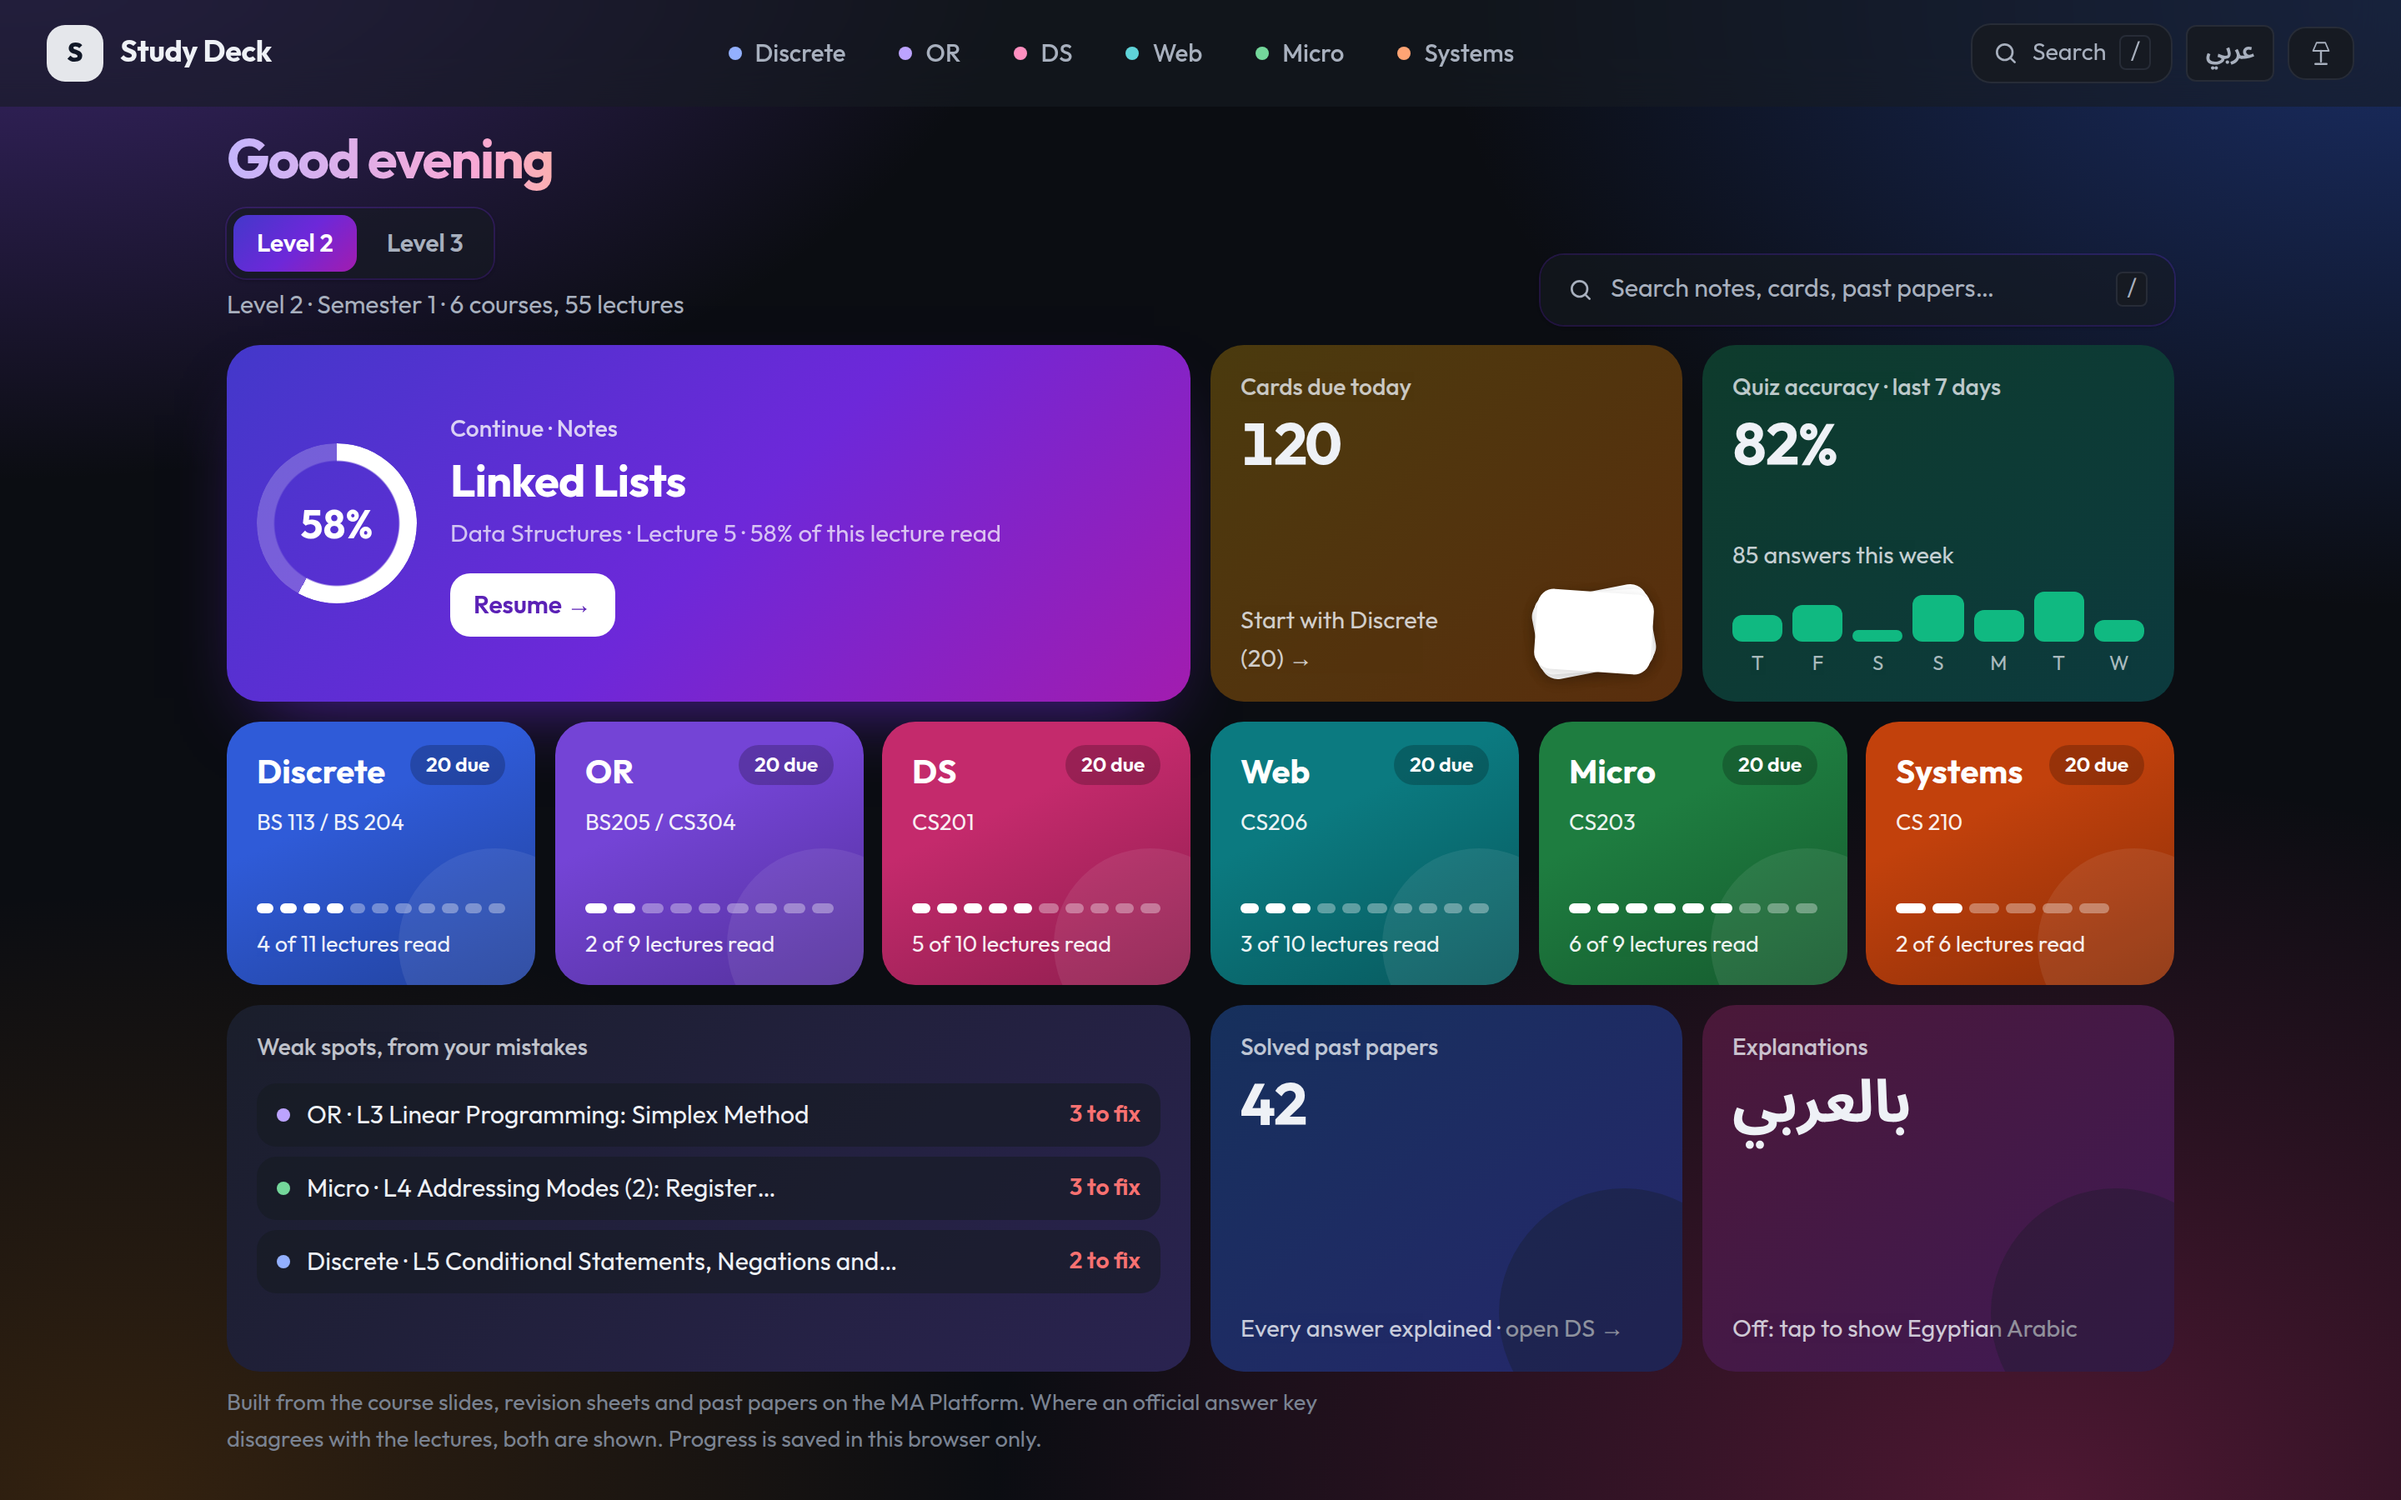
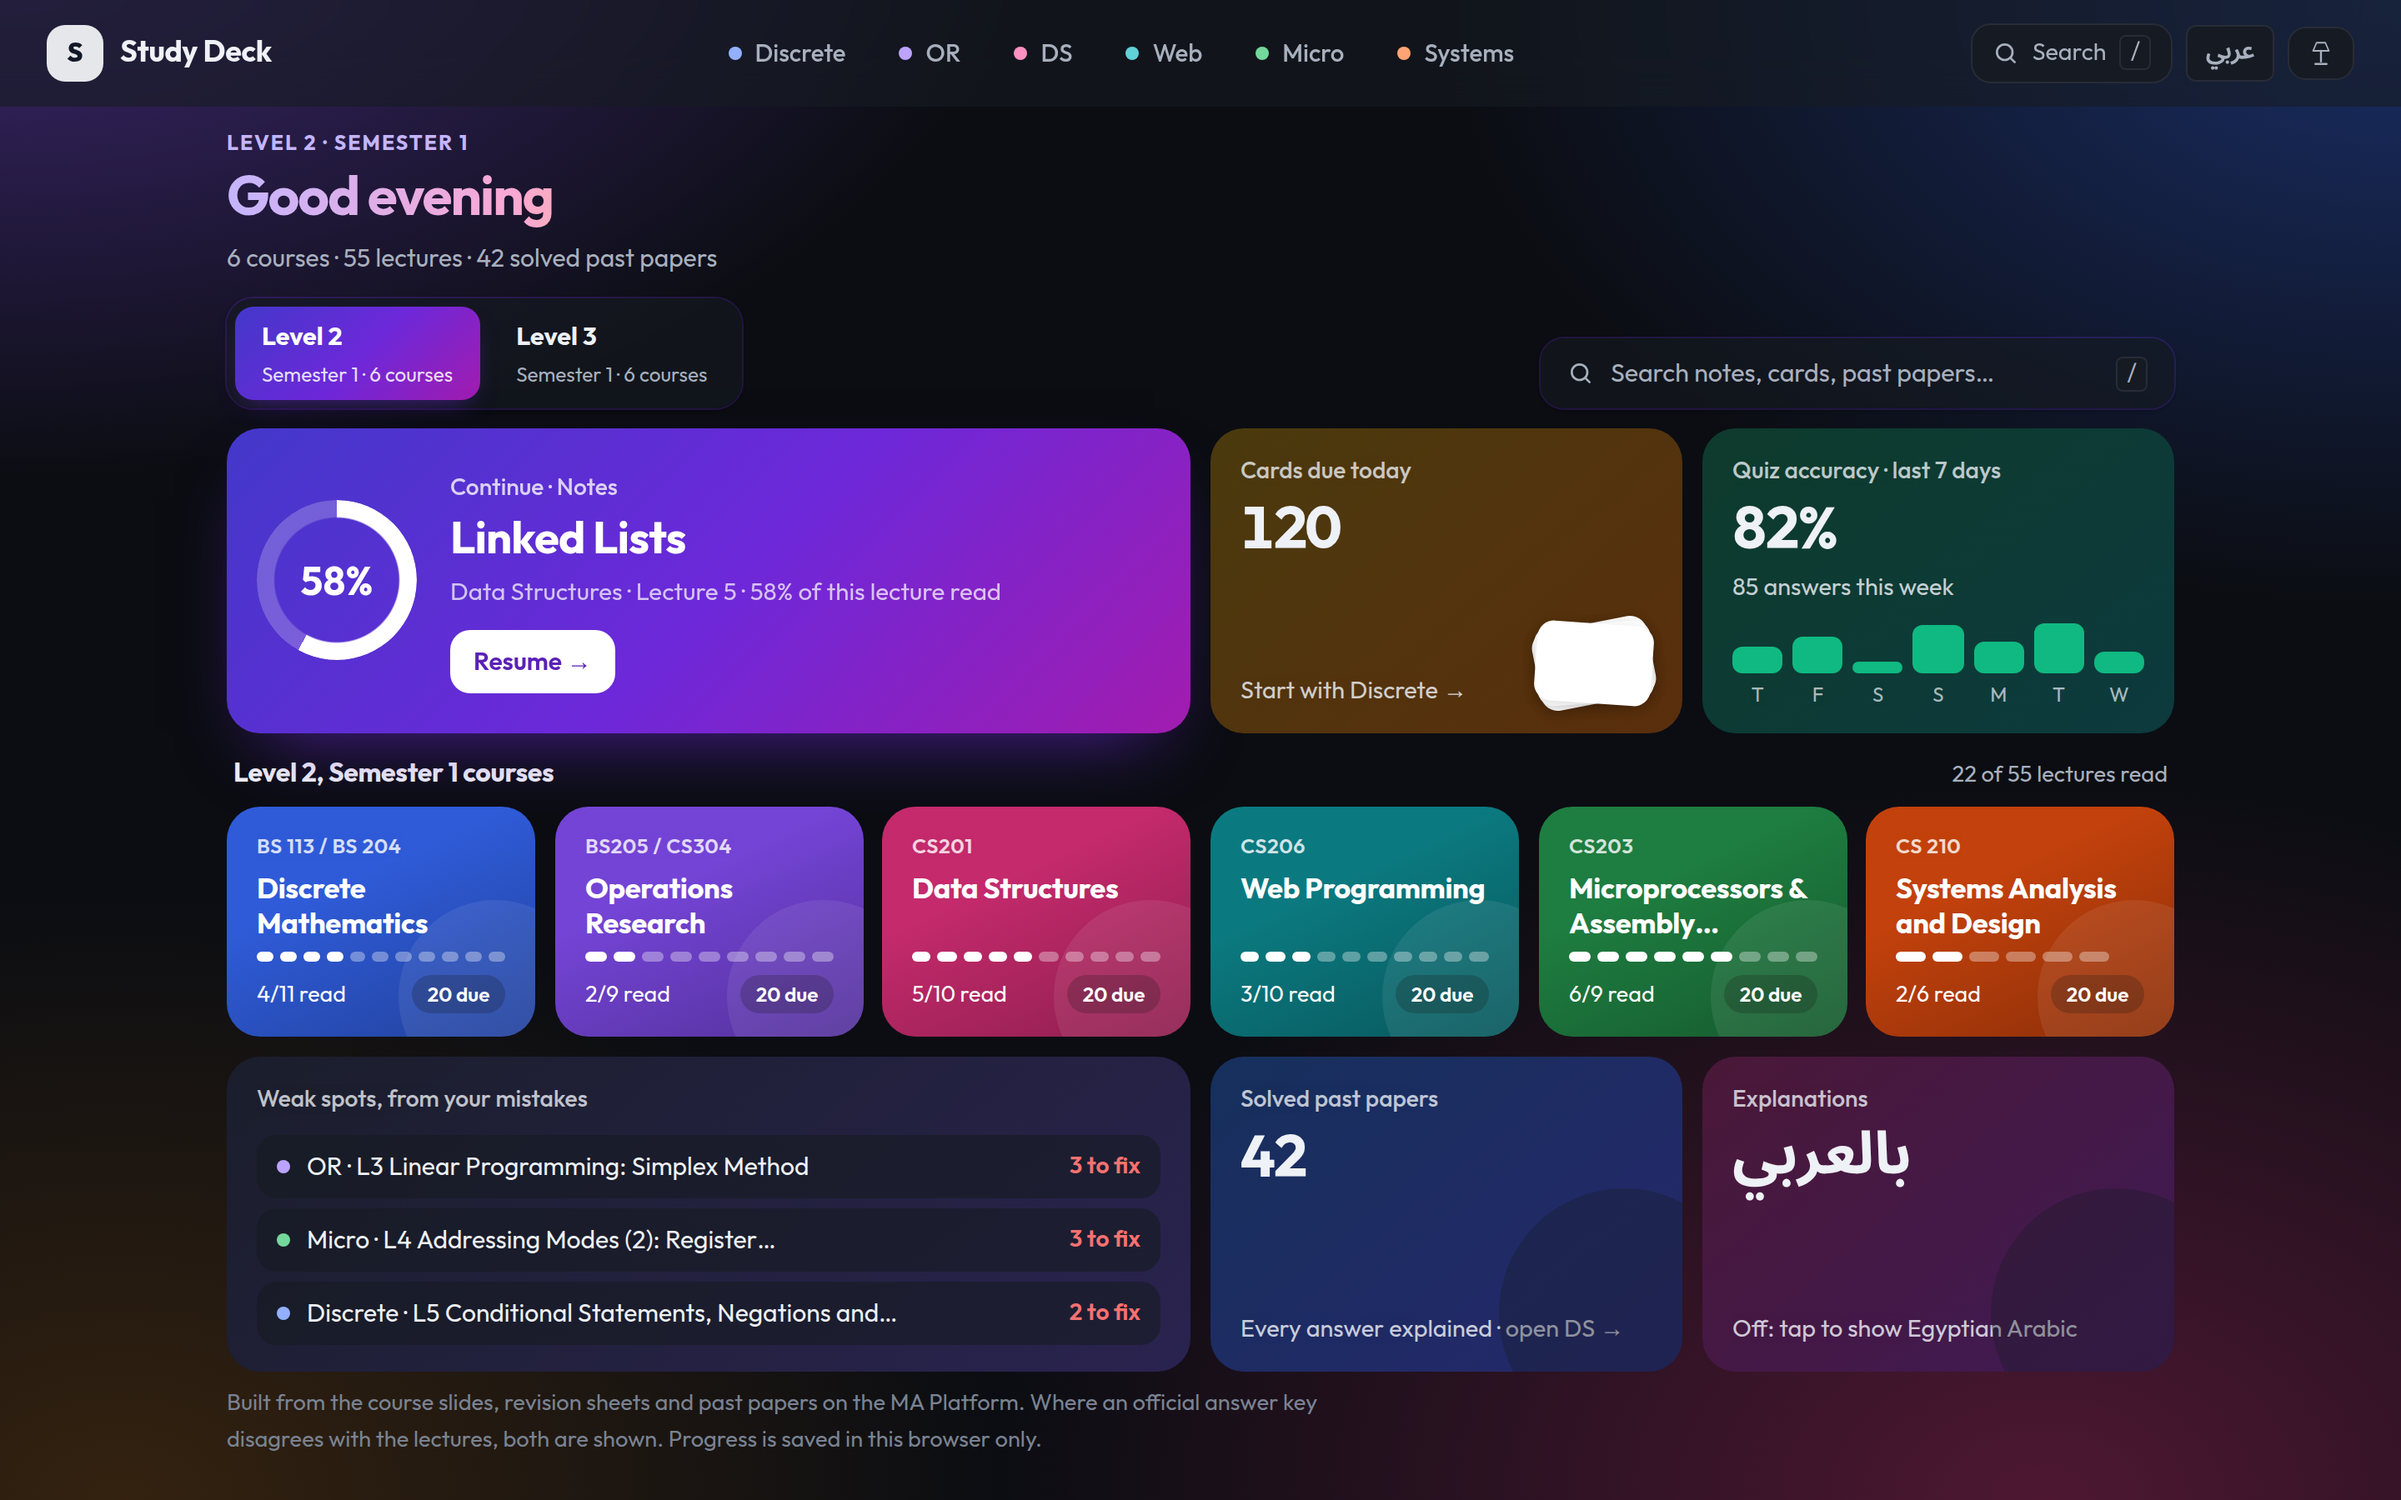
Home page: level picker shows the semester, clearer course tiles

Changed region(s): [[0.0938, 0.0933, 0.9062, 0.9022], [0.4062, 0.7778, 0.5, 0.9022]]

diff --git a/index.html b/index.html
@@ -133,10 +133,17 @@ kbd{ font-family:var(--mono); font-size:.75rem; border:1px solid var(--line); bo
 .hello{ display:flex; justify-content:space-between; align-items:flex-end; gap:16px; flex-wrap:wrap; margin:6px 0 22px; }
 .hello h1{ font-size:clamp(2.1rem, 4.6vw, 3rem); letter-spacing:-.03em; background:var(--hello); -webkit-background-clip:text; background-clip:text; color:transparent; padding-bottom:.06em; }
 .hello p{ margin:4px 0 0; color:var(--graphite); }
+.hello .hello-k{ margin:0 0 2px; font-size:.78rem; font-weight:700; letter-spacing:.08em; text-transform:uppercase; color:#7C3AED; }
+:root[data-theme="dark"] .hello .hello-k{ color:#C4B5FD; }
+@media (prefers-color-scheme: dark){ :root:not([data-theme="light"]) .hello .hello-k{ color:#C4B5FD; } }
 /* Level switch: Level 2 and Level 3 share one site; Level 2 courses reuse the Level 3 course colours in the same order */
-.lvls{ display:inline-flex; gap:4px; margin-top:8px; padding:4px; border-radius:12px; background:var(--glass); box-shadow:0 0 0 1px rgba(124,58,237,.22), var(--shadow-sm); }
-.lvls button{ min-height:34px; padding:0 14px; border:0; border-radius:9px; background:transparent; color:var(--graphite); font:inherit; font-size:.92rem; font-weight:600; cursor:pointer; }
-.lvls button[aria-pressed="true"]{ background:var(--g-cont); color:#FFFFFF; }
+.lvls{ display:flex; flex-wrap:wrap; gap:6px; margin-top:12px; padding:5px; border-radius:16px; background:var(--glass); box-shadow:0 0 0 1px rgba(124,58,237,.22), var(--shadow-sm); width:max-content; max-width:100%; }
+.lvls button{ display:flex; flex-direction:column; align-items:flex-start; gap:1px; min-height:44px; padding:6px 16px; border:0; border-radius:11px; background:transparent; color:var(--ink); font:inherit; text-align:left; cursor:pointer; transition:background .15s ease; }
+.lvls button b{ font-size:.95rem; font-weight:700; }
+.lvls button span{ font-size:.76rem; color:var(--graphite); }
+.lvls button:hover:not([aria-pressed="true"]){ background:color-mix(in srgb, #7C3AED 10%, transparent); }
+.lvls button[aria-pressed="true"]{ background:var(--g-cont); color:#FFFFFF; box-shadow:0 6px 16px -8px rgba(109,40,217,.8); }
+.lvls button[aria-pressed="true"] span{ color:rgba(255,255,255,.85); }
 .lvls button:focus-visible{ outline:2px solid #7C3AED; outline-offset:2px; }
 .hsearch{ display:flex; align-items:center; gap:10px; width:min(380px, 100%); height:48px; padding:0 16px; border:0; border-radius:14px; background:var(--glass); color:var(--graphite); font:inherit; font-size:.95rem; cursor:pointer; box-shadow:0 0 0 1px rgba(124,58,237,.22), var(--shadow-sm); }
 .hsearch span{ flex:1; text-align:left; }
@@ -146,7 +153,7 @@ button.tile{ cursor:pointer; transition:transform .15s ease, box-shadow .15s eas
 button.tile:hover:not(:disabled){ transform:translateY(-3px); box-shadow:0 18px 36px -16px color-mix(in srgb, var(--spd, #7C3AED) 70%, transparent); }
 .tile{ animation:tile-in .5s cubic-bezier(.2,.8,.2,1) both; }
 .bento > :nth-child(2){ animation-delay:.05s; } .bento > :nth-child(3){ animation-delay:.1s; } .bento > :nth-child(5){ animation-delay:.2s; } .bento > :nth-child(6){ animation-delay:.25s; } .bento > :nth-child(7){ animation-delay:.3s; }
-.t-courses > :nth-child(1){ animation-delay:.12s; } .t-courses > :nth-child(2){ animation-delay:.15s; } .t-courses > :nth-child(3){ animation-delay:.18s; } .t-courses > :nth-child(4){ animation-delay:.21s; } .t-courses > :nth-child(5){ animation-delay:.24s; } .t-courses > :nth-child(6){ animation-delay:.27s; }
+.t-courses > button:nth-of-type(1){ animation-delay:.12s; } .t-courses > button:nth-of-type(2){ animation-delay:.15s; } .t-courses > button:nth-of-type(3){ animation-delay:.18s; } .t-courses > button:nth-of-type(4){ animation-delay:.21s; } .t-courses > button:nth-of-type(5){ animation-delay:.24s; } .t-courses > button:nth-of-type(6){ animation-delay:.27s; }
 @keyframes tile-in{ from{ opacity:0; transform:translateY(14px) scale(.985); } }
 @media (prefers-reduced-motion: reduce){ .tile{ animation:none; } }
 button.tile:disabled{ cursor:default; }
@@ -173,13 +180,16 @@ button.tile:disabled{ cursor:default; }
 .bars b{ flex:1; width:100%; display:flex; align-items:flex-end; }
 .bars i{ display:block; width:100%; background:#10B981; border-radius:6px; }
 .bars em{ font-style:normal; font-size:.75rem; opacity:.7; }
-.t-courses{ grid-column:1 / -1; display:grid; grid-template-columns:repeat(6, minmax(0, 1fr)); gap:14px; }
+.t-courses{ grid-column:1 / -1; display:grid; grid-template-columns:repeat(6, minmax(0, 1fr)); grid-template-rows:auto 1fr; gap:14px; }
+.t-head{ grid-column:1 / -1; display:flex; justify-content:space-between; align-items:baseline; gap:4px 12px; flex-wrap:wrap; margin:2px 4px -4px; }
+.t-head h2{ margin:0; font-size:1rem; font-weight:700; color:var(--ink); letter-spacing:-.01em; }
+.t-head span{ font-size:.85rem; color:var(--graphite); }
 .t-course{ background:linear-gradient(155deg, var(--spd) 35%, color-mix(in srgb, var(--spd) 72%, #000)); color:#fff; min-height:156px; }
 .t-course::after{ content:""; position:absolute; right:-34px; bottom:-34px; width:116px; height:116px; border-radius:50%; background:rgba(255,255,255,.08); pointer-events:none; }
-.tcn{ display:flex; flex-wrap:wrap; justify-content:space-between; align-items:flex-start; gap:4px 8px; }
-.tcn b{ font-size:1.25rem; font-weight:700; }
-.tcn em{ font-style:normal; font-size:.78rem; font-weight:600; background:rgba(0,0,0,.22); border-radius:99px; padding:2px 9px; white-space:nowrap; }
-.tcs{ font-size:.84rem; opacity:.92; }
+.tcn{ font-size:1.08rem; font-weight:700; line-height:1.22; letter-spacing:-.01em; display:-webkit-box; -webkit-box-orient:vertical; -webkit-line-clamp:2; line-clamp:2; overflow:hidden; }
+.tcf{ display:flex; justify-content:space-between; align-items:center; gap:8px; font-size:.84rem; }
+.tcf em{ font-style:normal; font-size:.76rem; font-weight:600; background:rgba(0,0,0,.22); border-radius:99px; padding:2px 9px; white-space:nowrap; }
+.tcs{ font-size:.78rem; font-weight:600; letter-spacing:.02em; opacity:.8; }
 .dots{ display:flex; gap:4px; margin-top:auto; margin-bottom:4px; }
 .dots i{ flex:1; max-width:18px; height:6px; border-radius:9px; background:rgba(255,255,255,.35); }
 .dots i.f{ background:#fff; }
@@ -222,7 +232,9 @@ button.tile:disabled{ cursor:default; }
 @media (max-width:1000px){ .bento{ grid-template-columns:repeat(2, minmax(0, 1fr)); } .t-courses{ grid-template-columns:repeat(3, minmax(0, 1fr)); } }
 @media (max-width:600px){
   .bento{ grid-template-columns:minmax(0, 1fr); } .t-cont, .t-weak{ grid-column:auto; }
-  .t-cont{ flex-direction:column; align-items:flex-start; gap:16px; } .ring{ width:96px; height:96px; } .ring::before{ -webkit-mask:radial-gradient(farthest-side, transparent calc(100% - 11px), #000 calc(100% - 10px)); mask:radial-gradient(farthest-side, transparent calc(100% - 11px), #000 calc(100% - 10px)); } .ring i{ font-size:1.2rem; }
+  .t-cont{ align-items:flex-start; gap:16px; min-height:0; } .ring{ width:72px; height:72px; } .ring::before{ -webkit-mask:radial-gradient(farthest-side, transparent calc(100% - 8px), #000 calc(100% - 7px)); mask:radial-gradient(farthest-side, transparent calc(100% - 8px), #000 calc(100% - 7px)); } .ring i{ font-size:1rem; }
+  .hello-l{ width:100%; } .lvls{ display:grid; grid-template-columns:repeat(auto-fit, minmax(0, 1fr)); width:100%; } .lvls button{ padding:6px 12px; }
+  .tcn{ font-size:1rem; -webkit-line-clamp:3; line-clamp:3; }
   .t-courses{ grid-template-columns:repeat(2, minmax(0, 1fr)); } .tile{ min-height:0; } .t-course{ min-height:140px; }
 }
 

diff --git a/app.js b/app.js
@@ -418,9 +418,13 @@ function start() {
       <${Topbar} bar=${bar} cur=${null} />
       <main className="content home">
         <div className="hello">
-          <div><h1>${greet}</h1>
-            ${LEVELS.length > 1 && html`<div className="lvls" role="group" aria-label="Level">${LEVELS.map(v => html`<button key=${v.id} aria-pressed=${String(v.id === LEVEL.id)} onClick=${() => setLevel(v.id)}>${v.name}</button>`)}</div>`}
-            <p>${LEVEL.name} · ${LEVEL.sem} · ${ORDER.length} courses, ${sum.lec} lectures</p></div>
+          <div className="hello-l">
+            <p className="hello-k">${LEVEL.name} · ${LEVEL.sem}</p>
+            <h1>${greet}</h1>
+            <p>${ORDER.length} courses · ${sum.lec} lectures · ${papers} solved past papers</p>
+            ${LEVELS.length > 1 && html`<div className="lvls" role="group" aria-label="Level and semester">${LEVELS.map(v => html`<button key=${v.id} aria-pressed=${String(v.id === LEVEL.id)} onClick=${() => setLevel(v.id)}>
+              <b>${v.name}</b><span>${v.sem} · ${v.order.length} courses</span></button>`)}</div>`}
+          </div>
           <button className="hsearch" onClick=${openSearch}>${Icon.search}<span>Search notes, cards, past papers…</span><kbd>/</kbd></button>
         </div>
         <div className="bento">
@@ -438,7 +442,7 @@ function start() {
             </button>`}
           <button className="tile t-due" disabled=${!dueTop} onClick=${() => dueTop && openCourse(dueTop.k, { mode: 'cards', cardsAuto: Date.now() })}>
             <span className="tl">Cards due today</span><b className="big">${sum.due}</b>
-            <span className="tsub">${dueTop ? 'Start with ' + M[dueTop.k].short + ' (' + dueTop.due + ') →' : 'All caught up'}</span>
+            <span className="tsub">${dueTop ? 'Start with ' + M[dueTop.k].short + ' →' : 'All caught up'}</span>
             <span className="stk" aria-hidden="true"><i></i><i></i><i></i></span>
           </button>
           <div className="tile t-acc">
@@ -447,11 +451,13 @@ function start() {
             <span className="tsub">${wk.n ? wk.n + ' answers this week' : ever.n ? ever.n + ' answers so far' : 'No answers yet'}</span>
             <span className="bars" aria-label="Answers per day, last 7 days">${week.map(x => html`<span key=${x.d} title=${x.n + ' answers, ' + x.r + ' right'}><b><i style=${{ height: (x.n ? Math.max(12, x.n / maxN * 100) : 5) + '%', opacity: x.n ? 1 : .35 }}></i></b><em>${dayLetter(x.d)}</em></span>`)}</span>
           </div>
-          <div className="t-courses">${rows.map(r => html`<button key=${r.k} className=${'tile t-course sp-' + r.k} onMouseEnter=${() => prefetch(r.k)} onClick=${() => openCourse(r.k)}>
-            <span className="tcn"><b>${M[r.k].short}</b>${r.due ? html`<em>${r.due} due</em>` : null}</span>
+          <div className="t-courses">
+            <div className="t-head"><h2>${LEVEL.name}, ${LEVEL.sem} courses</h2><span>${sum.read} of ${sum.lec} lectures read</span></div>
+            ${rows.map(r => html`<button key=${r.k} className=${'tile t-course sp-' + r.k} title=${M[r.k].name} onMouseEnter=${() => prefetch(r.k)} onClick=${() => openCourse(r.k)}>
             <span className="tcs">${M[r.k].code}${r.el ? ' · Elective' : ''}</span>
+            <b className="tcn">${M[r.k].name}</b>
             <span className="dots" aria-hidden="true">${M[r.k].lectures.map(l => html`<i key=${l.n} className=${r.readList.includes(l.n) ? 'f' : ''}></i>`)}</span>
-            <span className="tcs">${r.read} of ${r.lectures} lectures read</span>
+            <span className="tcf"><span>${r.read}/${r.lectures} read</span>${r.due ? html`<em>${r.due} due</em>` : null}</span>
           </button>`)}</div>
           <div className="tile t-weak">
             <span className="tl">Weak spots, from your mistakes</span>
@@ -504,7 +510,7 @@ function start() {
         <div className="band-in">
           <div className="band-top">
             <div className="band-id">
-              <p className="band-k">${c.code} · ${ORDER.find(o => o[0] === k)[1] ? 'Elective' : 'Core course'}</p>
+              <p className="band-k">${LEVEL.name} · ${LEVEL.sem} · ${c.code} · ${ORDER.find(o => o[0] === k)[1] ? 'Elective' : 'Core course'}</p>
               <h1>${c.name}</h1>
               <p className="band-by">${c.by}</p>
             </div>
